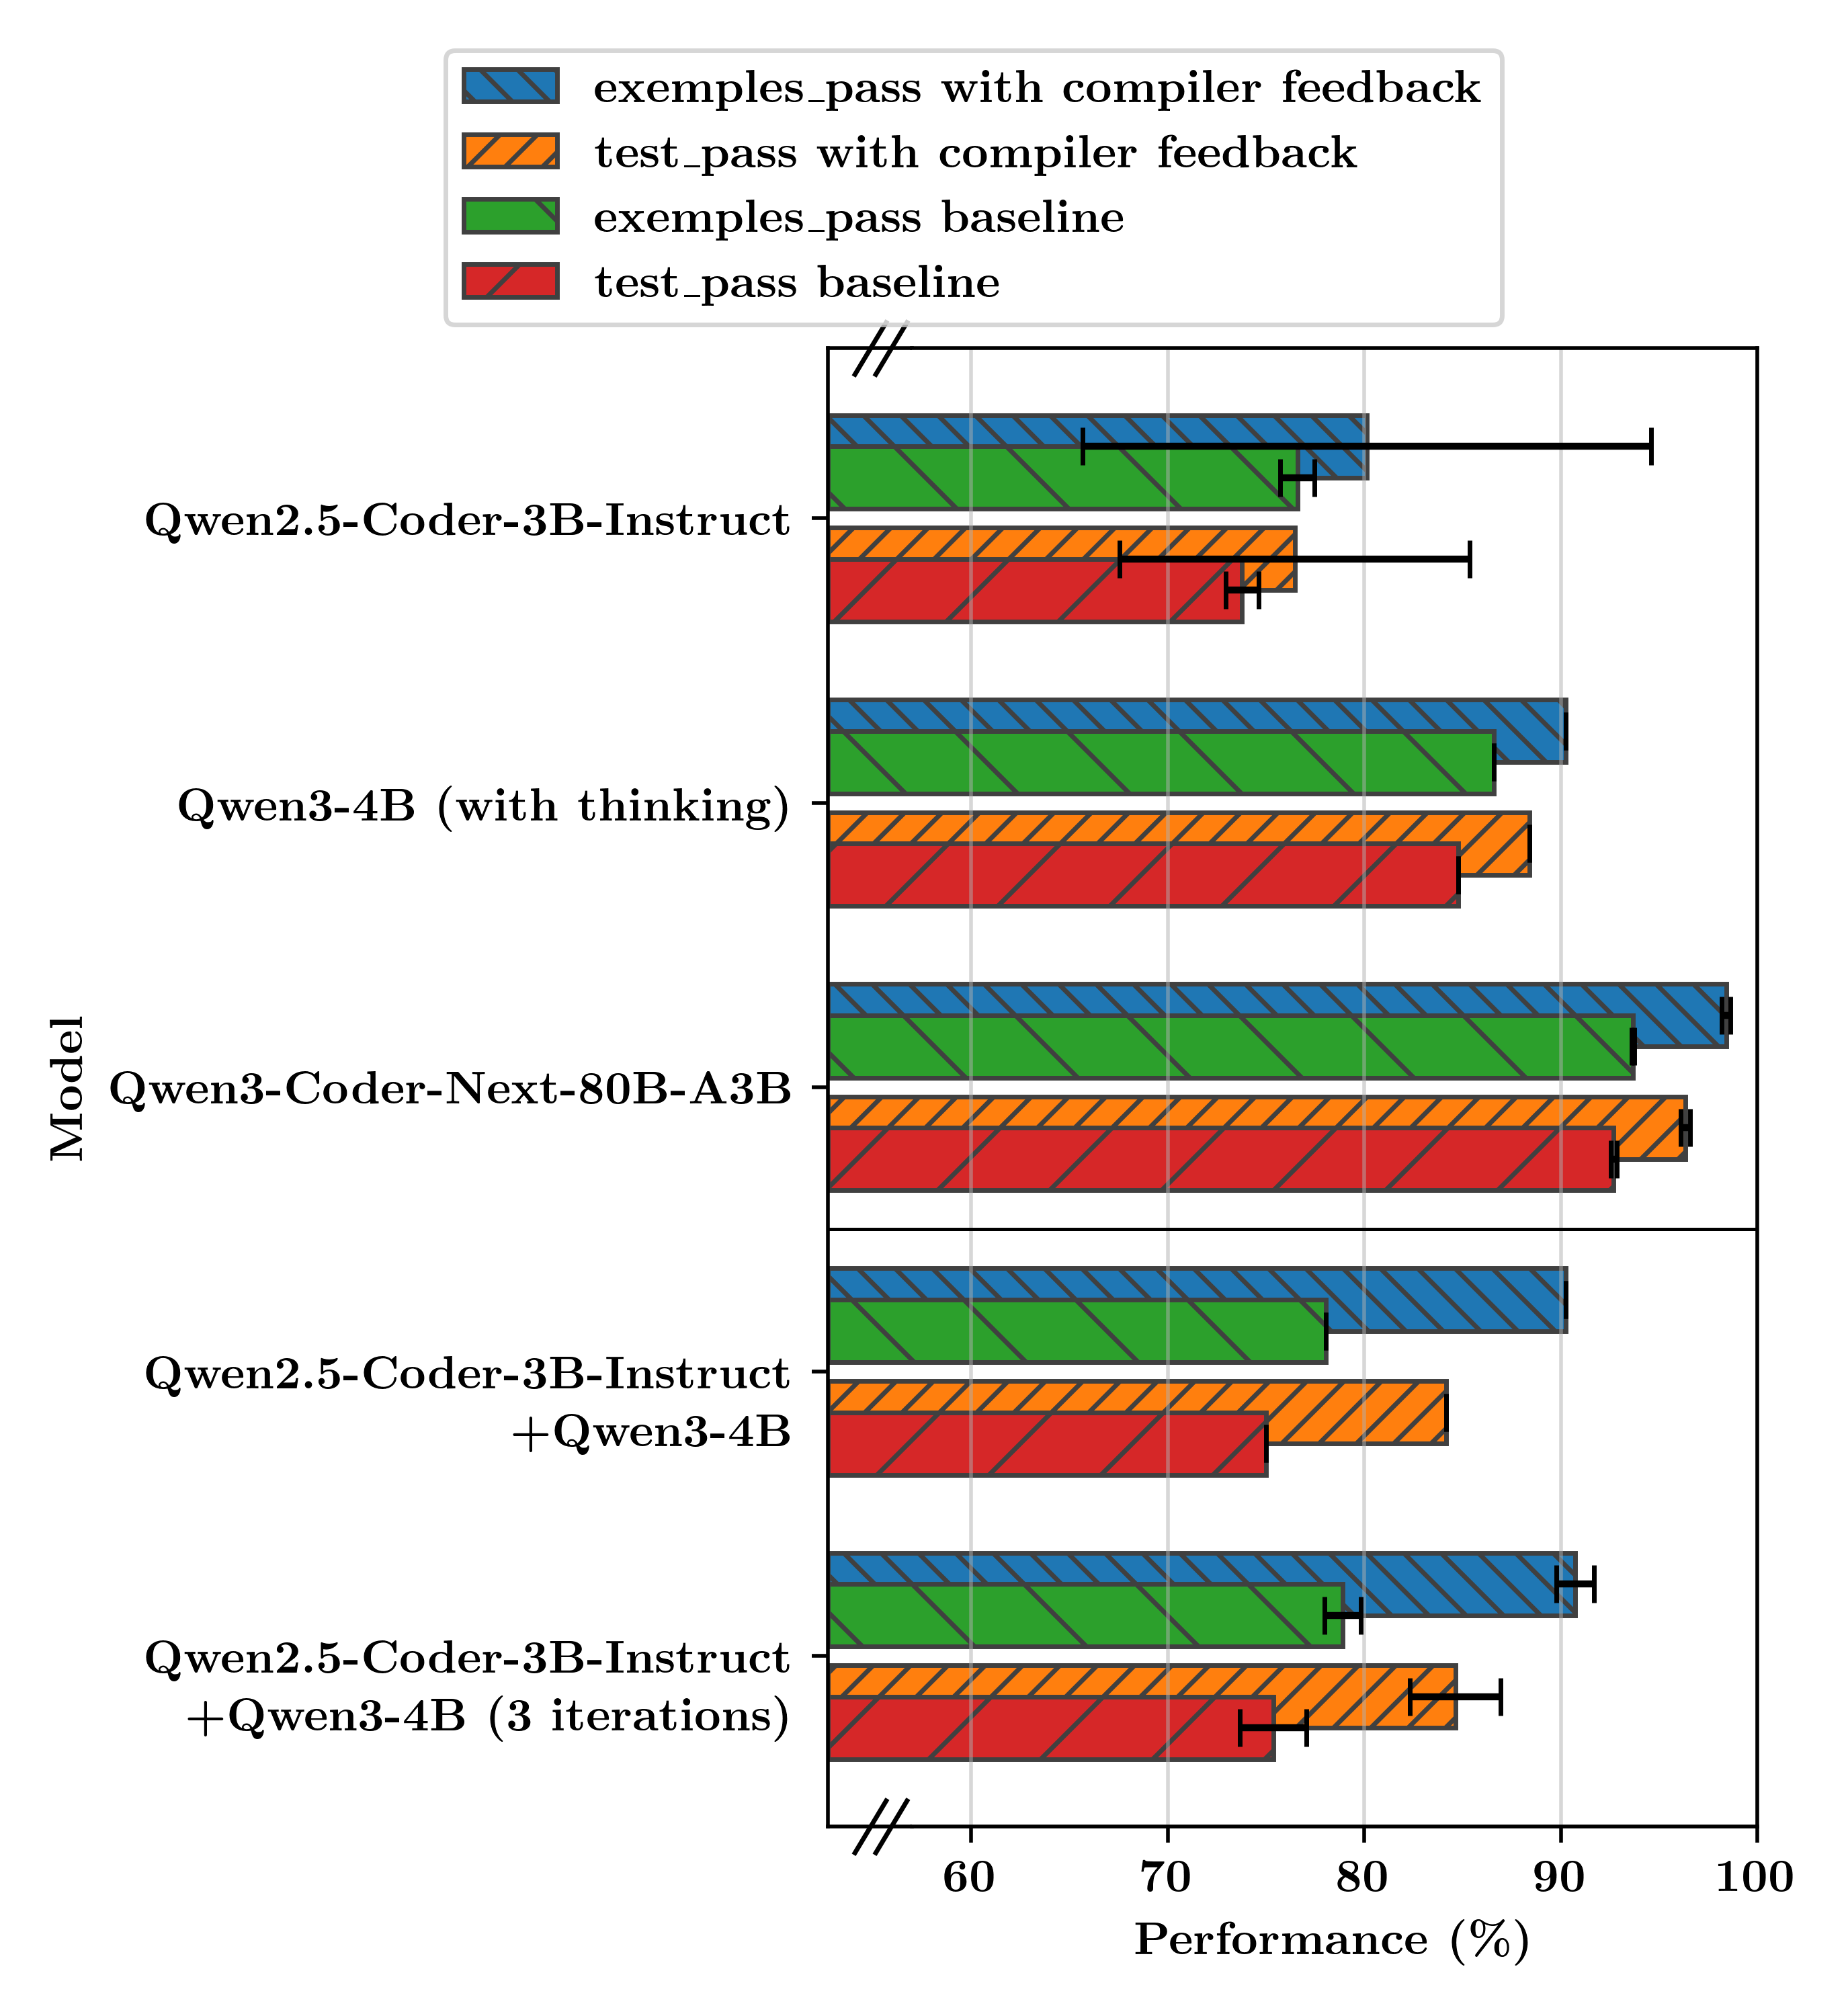
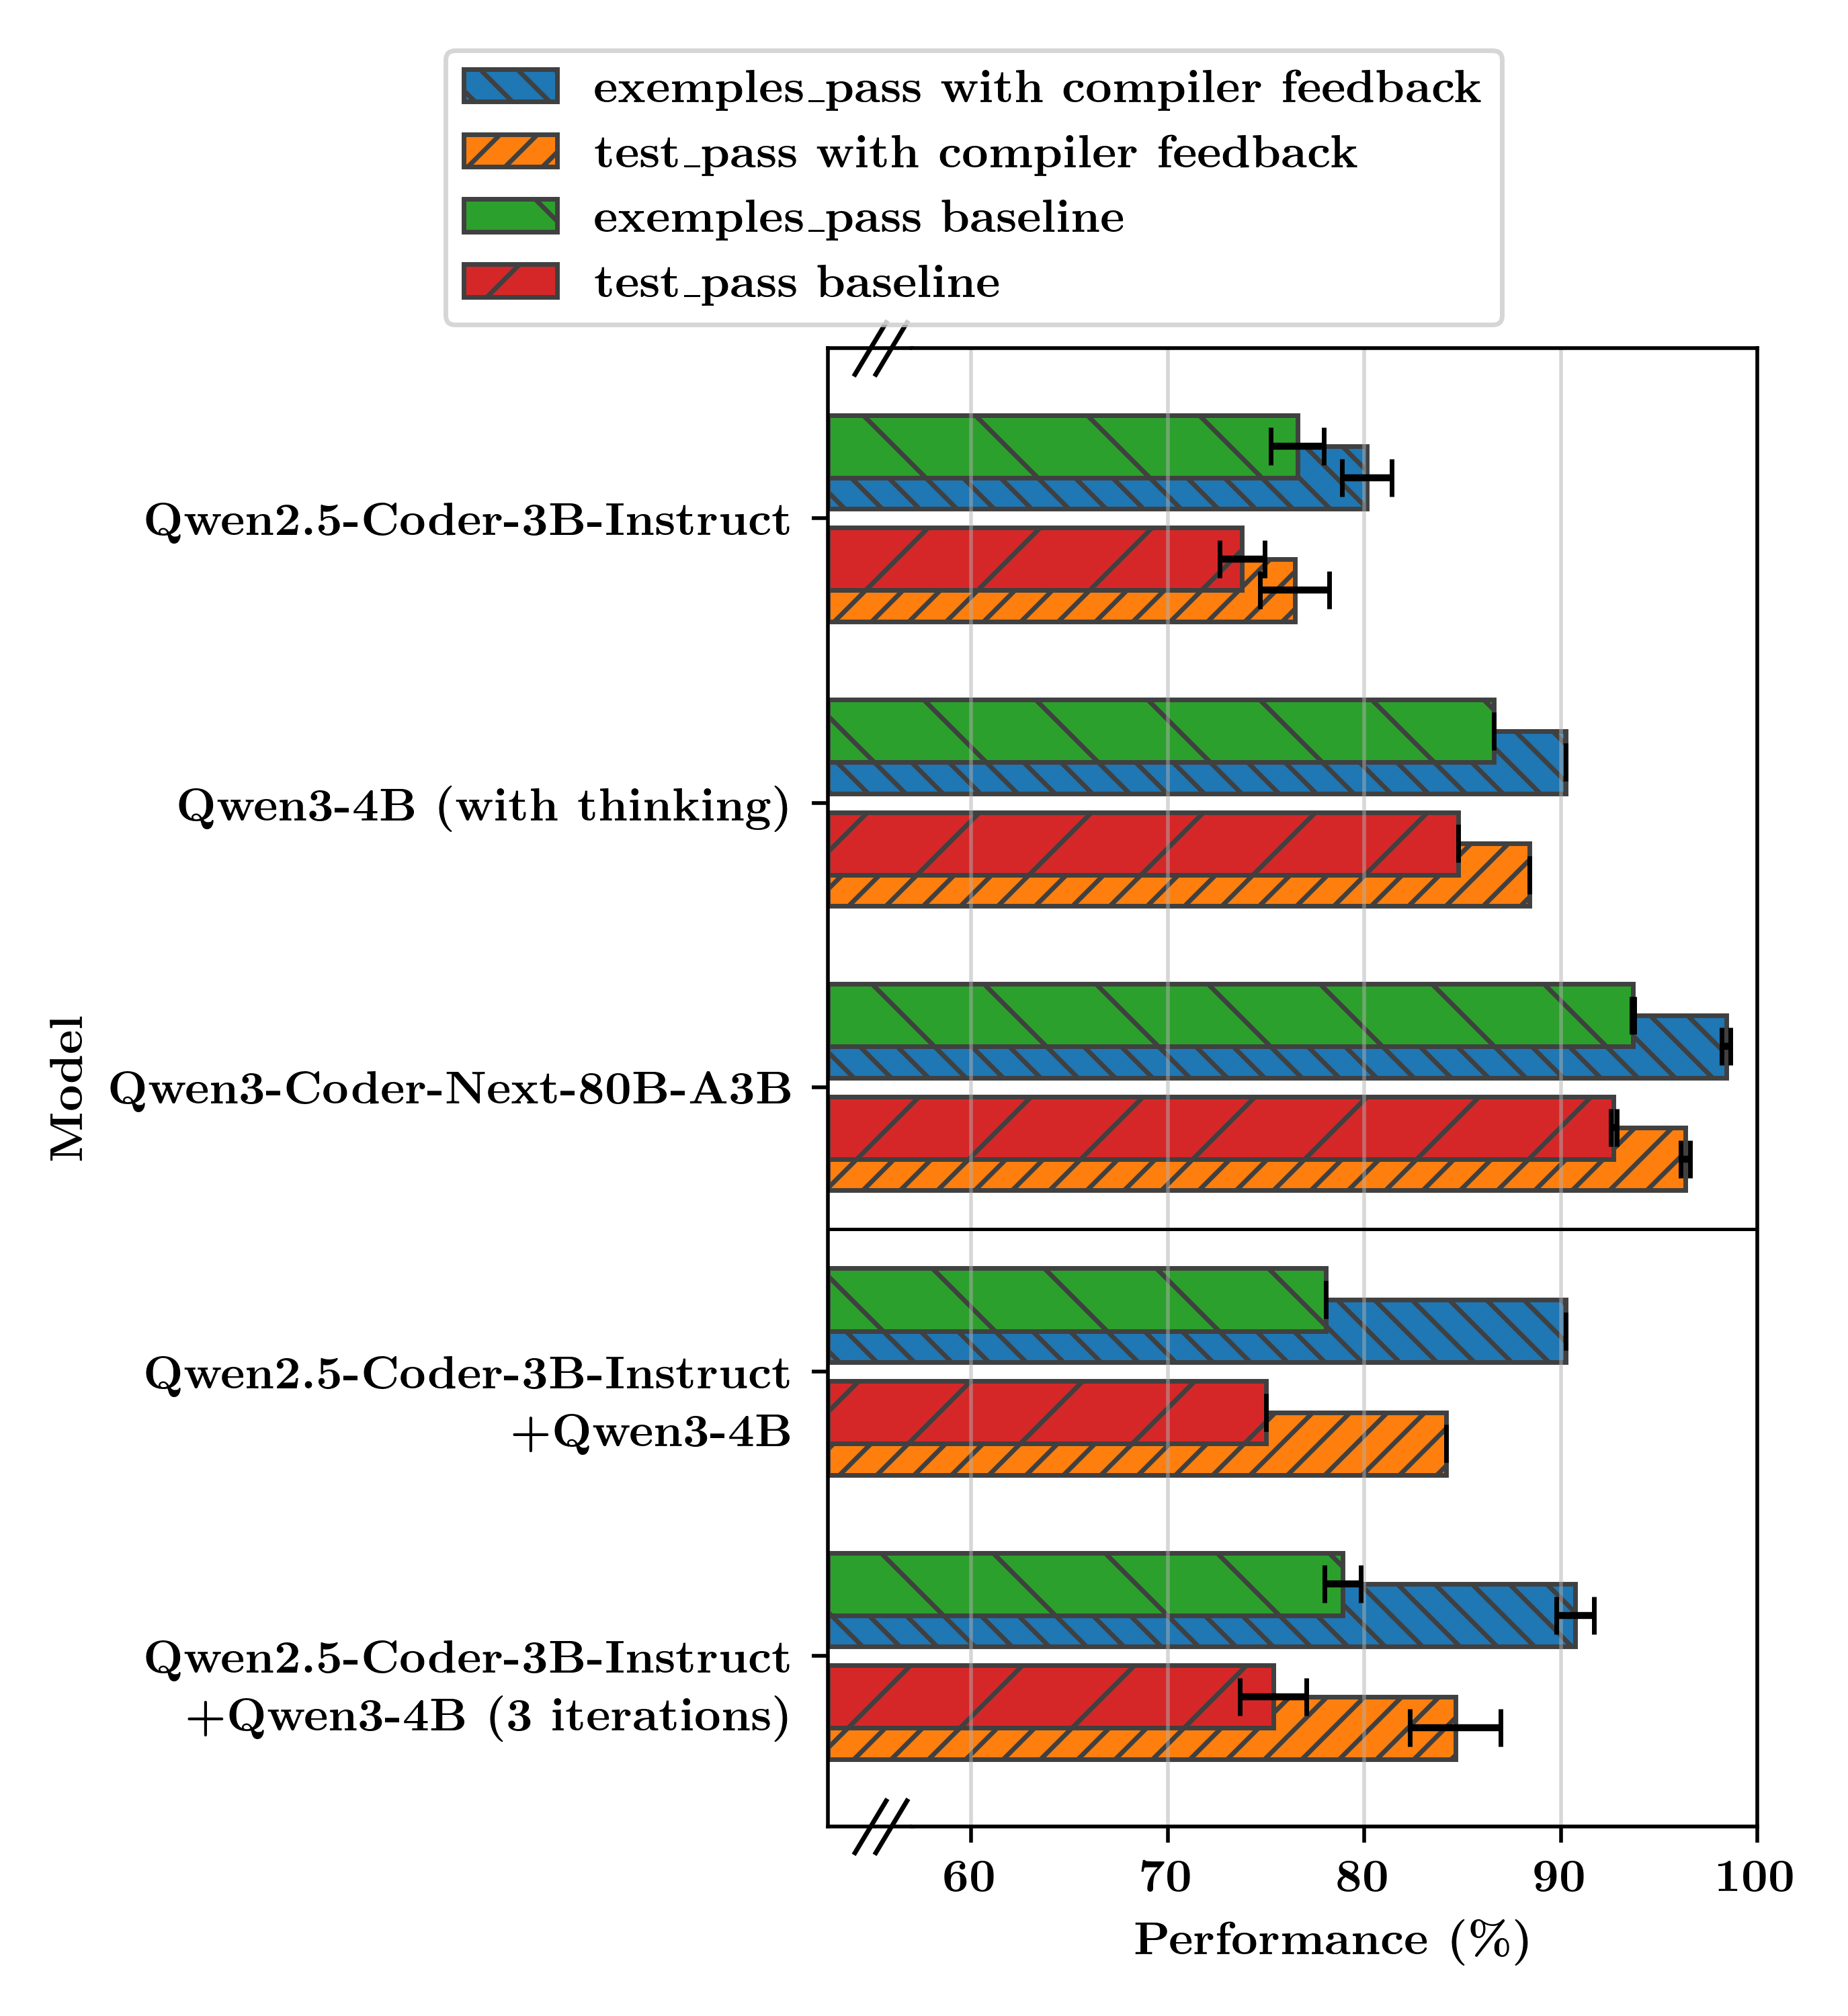
better automation for saving files

Changed region(s): [[0.4327, 0.341, 0.9582, 0.589], [0.4327, 0.62, 0.8655, 0.899], [0.4327, 0.186, 0.8964, 0.31]]

diff --git a/supercode/src/docker_env/compile_gen_code.py b/supercode/src/docker_env/compile_gen_code.py
@@ -59,18 +59,14 @@ def sandboxed_compiler(function, test=None, entry_point=None):
 
 # paths
 bench_name = "humaneval"
-num_samples_per_task=5
-model_name = "Qwen2.5-Coder-3B-Instruct" # "Qwen3-Coder-Next" # "Qwen2.5-Coder-3B-Instruct+Qwen3-4B" # "Qwen3-4B" #
+num_samples_per_task=5 ; iter = ""
+model_name = "Qwen3-Coder-Next" # "Qwen2.5-Coder-3B-Instruct" # "Qwen3-4B" # "Qwen2.5-Coder-3B-Instruct+Qwen3-4B" #
 gen_code_dir = "src/docker_env/results" # where I save the code generated by the agent, so it can be tested
 
-
-#file_name = "humaneval_patch-"+model_id[model_id.find("/")+1:] # humaneval_baseline or humaneval_patch or humaneval_megalinter
-#bench_file_name = "humaneval_benchmark-Qwen2.5-Coder-3B-Instruct_"+str(num_samples_per_task) # humaneval_baseline or humaneval_benchmark ### old: humaneval_patch or humaneval_megalinter
-#base_file_name = "humaneval_baseline-Qwen2.5-Coder-3B-Instruct_"+str(num_samples_per_task) # humaneval_baseline or humaneval_benchmark ### old: humaneval_patch or humaneval_megalinter
-
-base_file_name  = bench_name+"_baseline-" +model_name+"_"+str(num_samples_per_task)
-bench_file_name = bench_name+"_benchmark-"+model_name+"_"+str(num_samples_per_task)
-#benchmark_file = gen_code_dir+"/"+file_name+"_results.txt"
+#base_file_name  = bench_name+"_baseline-" +model_name+"_"+str(num_samples_per_task)#"1+4"#
+#bench_file_name = bench_name+"_benchmark-"+model_name+"_"+str(num_samples_per_task)#"1+4"#
+base_file_name  = gen_code_dir+"/"+bench_name+"_"+model_name+"_baseline_" +str(num_samples_per_task)+iter+".jsonl"
+bench_file_name = gen_code_dir+"/"+bench_name+"_"+model_name+"_benchmark_"+str(num_samples_per_task)+iter+".jsonl"
 
 # importing the benchmark from hugging face
 if verbose>0 : print("loading benchmark...")
@@ -120,18 +116,18 @@ for file_name in [base_file_name, bench_file_name]:
     comp_fail_tot = sum(comp_fail) ; comp_fail_std = np.var(comp_fail)
     test_pass_tot = sum(test_pass) ; test_pass_std = np.var(test_pass)
     test_fail_tot = sum(test_fail) ; test_fail_std = np.var(test_fail)
+    tot_samples = len(samples)
 
     # final summary
     print("===========================================")
-    print(f"compiler pass:\t{comp_pass_tot}\t({comp_pass_tot/len(samples)*100:.2f}% +/- {comp_pass_std/len(samples)*100:.2f}%)")
-    print(f"compiler fail:\t{comp_fail_tot}\t({comp_fail_tot/len(samples)*100:.2f}% +/- {comp_fail_std/len(samples)*100:.2f}%)")
+    print(f"compiler pass:\t{comp_pass_tot}\t({comp_pass_tot/tot_samples*100:.2f}% +/- {comp_pass_std/tot_samples*100:.2f}%)\t{comp_pass}")
+    print(f"compiler fail:\t{comp_fail_tot}\t({comp_fail_tot/tot_samples*100:.2f}% +/- {comp_fail_std/tot_samples*100:.2f}%)\t{comp_fail}")
     print("-------------------------------------------")
-    print(f"test pass:   \t{test_pass_tot}\t({test_pass_tot/len(samples)*100:.2f}% +/- {test_pass_std/len(samples)*100:.2f}%)")
-    print(f"test fail:   \t{test_fail_tot}\t({test_fail_tot/len(samples)*100:.2f}% +/- {test_fail_std/len(samples)*100:.2f}%)")
+    print(f"test pass:   \t{test_pass_tot}\t({test_pass_tot/tot_samples*100:.2f}% +/- {test_pass_std/tot_samples*100:.2f}%)\t{test_pass}")
+    print(f"test fail:   \t{test_fail_tot}\t({test_fail_tot/tot_samples*100:.2f}% +/- {test_fail_std/tot_samples*100:.2f}%)\t{test_fail}")
     print("-------------------------------------------")
-    print(f"Total samples:\t{len(samples)}")
+    print(f"Total samples:\t{tot_samples}")
     print("===========================================")
-    print("comp_pass:", comp_pass, "\ncomp_fail:", comp_fail, "\ntest_pass:", test_pass, "\ntest_fail:", test_fail)
 
 """
 import json

diff --git a/supercode/benchmark-main.py b/supercode/benchmark-main.py
@@ -57,7 +57,7 @@ Actually fixed: (38)
 """
 print("baseline =", baseline, "; check_single_task =", check_single_task, "; i_task =", i_task)
 
-num_samples_per_task = 4 #200
+num_samples_per_task = 5 #200
 # if baseline is true then the model does not use any external info
 # if it is false, it checks first if it can find the baseline solution and then ask the model to improve it
 
@@ -68,14 +68,17 @@ dataset = load_dataset("openai/openai_humaneval"); bench_name = "humaneval"
 # /163: unclear prompt, should specify to return only digits that are between min(0,a,b) and max(a,b,9)
 # dataset = load_dataset("bigcode/crosscodeeval")["test"]; bench_name = "crosscodeeval"
 
-if baseline:
-    print("benchmark baseline and model for "+bench_name)
-else:
-    print("benchmark model for "+bench_name)
+if baseline: print("benchmark baseline and model for "+bench_name)
+else: print("benchmark model for "+bench_name)
 
-extra_note = "" #"+Qwen3-4B" #
-baseline_file  = gen_code_dir+"/"+bench_name+"_baseline-" +model_id[model_id.find("/")+1:]+extra_note+"_"+str(num_samples_per_task)+".jsonl"
-benchmark_file = gen_code_dir+"/"+bench_name+"_benchmark-"+model_id[model_id.find("/")+1:]+extra_note+"_"+str(num_samples_per_task)+".jsonl"
+if debugging: debug_model = "+"+debug_model_id
+else: debug_model = ""
+
+if n_iterations>1 : iter="_x"+n_iterations
+else: iter=""
+
+baseline_file  = gen_code_dir+"/"+bench_name+"_"+model_id[model_id.find("/")+1:]+debug_model+"_baseline_" +str(num_samples_per_task)+iter+".jsonl"
+benchmark_file = gen_code_dir+"/"+bench_name+"_"+model_id[model_id.find("/")+1:]+debug_model+"_benchmark_"+str(num_samples_per_task)+iter+".jsonl"
 
 # ----------------------------------------------------------------------------------------------
 # "model" is for processing text and generating an answer

diff --git a/supercode/src/agent.py b/supercode/src/agent.py
@@ -19,19 +19,27 @@ from src.configs.system_prompts import *
 from src.tools.tools import *
 from src.tools.code_processing import *
 
+"""
+Roles:
+- system: general instructions
+- user: the user
+- assistent: the model
+- tool: feedback from tools
+- thinking/reasoning: thimking mode or reasoning schemas (ex: CoT)
+"""
 
 class Agent():
     # define variables and import the model
     def __init__(self):
-        self.n_iterations = 1 # n of times the model is called
+        self.n_iterations = n_iterations # n of times the model is called
 
         # reasoning model for planning/debugging
-        self.debugging = True # use thinking model for debugging
+        self.debugging = debugging # use thinking model for debugging
         self.debug_model_id = debug_model_id
 
         # tools related parameters
         self.tool_results = []
-        self.tool_selection = False # use the same model either to choose which tool to use or to generate an answer
+        self.tool_selection = tool_selection # use the same model either to choose which tool to use or to generate an answer
         self.tools = get_tools() # tools for the agent
         self.schemas = [build_tool_schema(f) for f in self.tools.values()]
         self.details = [f._tool_metadata for f in self.tools.values()] # info about requirements

diff --git a/supercode/src/configs/parse_config.py b/supercode/src/configs/parse_config.py
@@ -12,6 +12,10 @@ vars = load(open("src/configs/config.yaml", 'r'), Loader=Loader)
 # general
 verbose = vars["verbose"] # how much info is printed: 0=none, 1=little, 2=all
 
+n_iterations = vars["n_iterations"]
+debugging = vars["debugging"]
+tool_selection = vars["tool_selection"]
+
 # ----------------------------------------------------------------------------------------------
 # chat assistant model
 model_args     = vars["model"]

diff --git a/supercode/src/docker_env/performance_plot.py b/supercode/src/docker_env/performance_plot.py
@@ -6,7 +6,7 @@ performance_values = [
     # model, values: baseline (ex, test) + bench (ex, test), variance
     [   r'\textbf{\begin{flushright} Qwen2.5-Coder-3B-Instruct \end{flushright}}',
         [76.59, 73.78, 80.12, 76.46],
-        [0.86, 0.83, 14.47, 8.91]
+        [1.34, 1.14, 1.26, 1.76]
     ], [r'\textbf{\begin{flushright} Qwen3-4B (with thinking) \end{flushright}}',
         [86.59, 84.76, 90.24, 88.41],
         [0,0,0,0]
@@ -47,7 +47,7 @@ data_std = [comp_pass_bench_std, test_pass_bench_std, comp_pass_base_std, test_p
 
 width = 0.22 # width of the bars in the plot
 x = np.arange(len(performance_values))
-dx = [ width*i for i in [-1.15, 0.65, -0.65, 1.15]] # relative positions of the bars in the plot (for each model)
+dx = [ width*i for i in [-0.65, 1.15, -1.15, 0.65]] # relative positions of the bars in the plot (for each model)
 hatches = ['\\\\\\', '///', '\\', '/']
 
 plt.rc('font', family='serif')